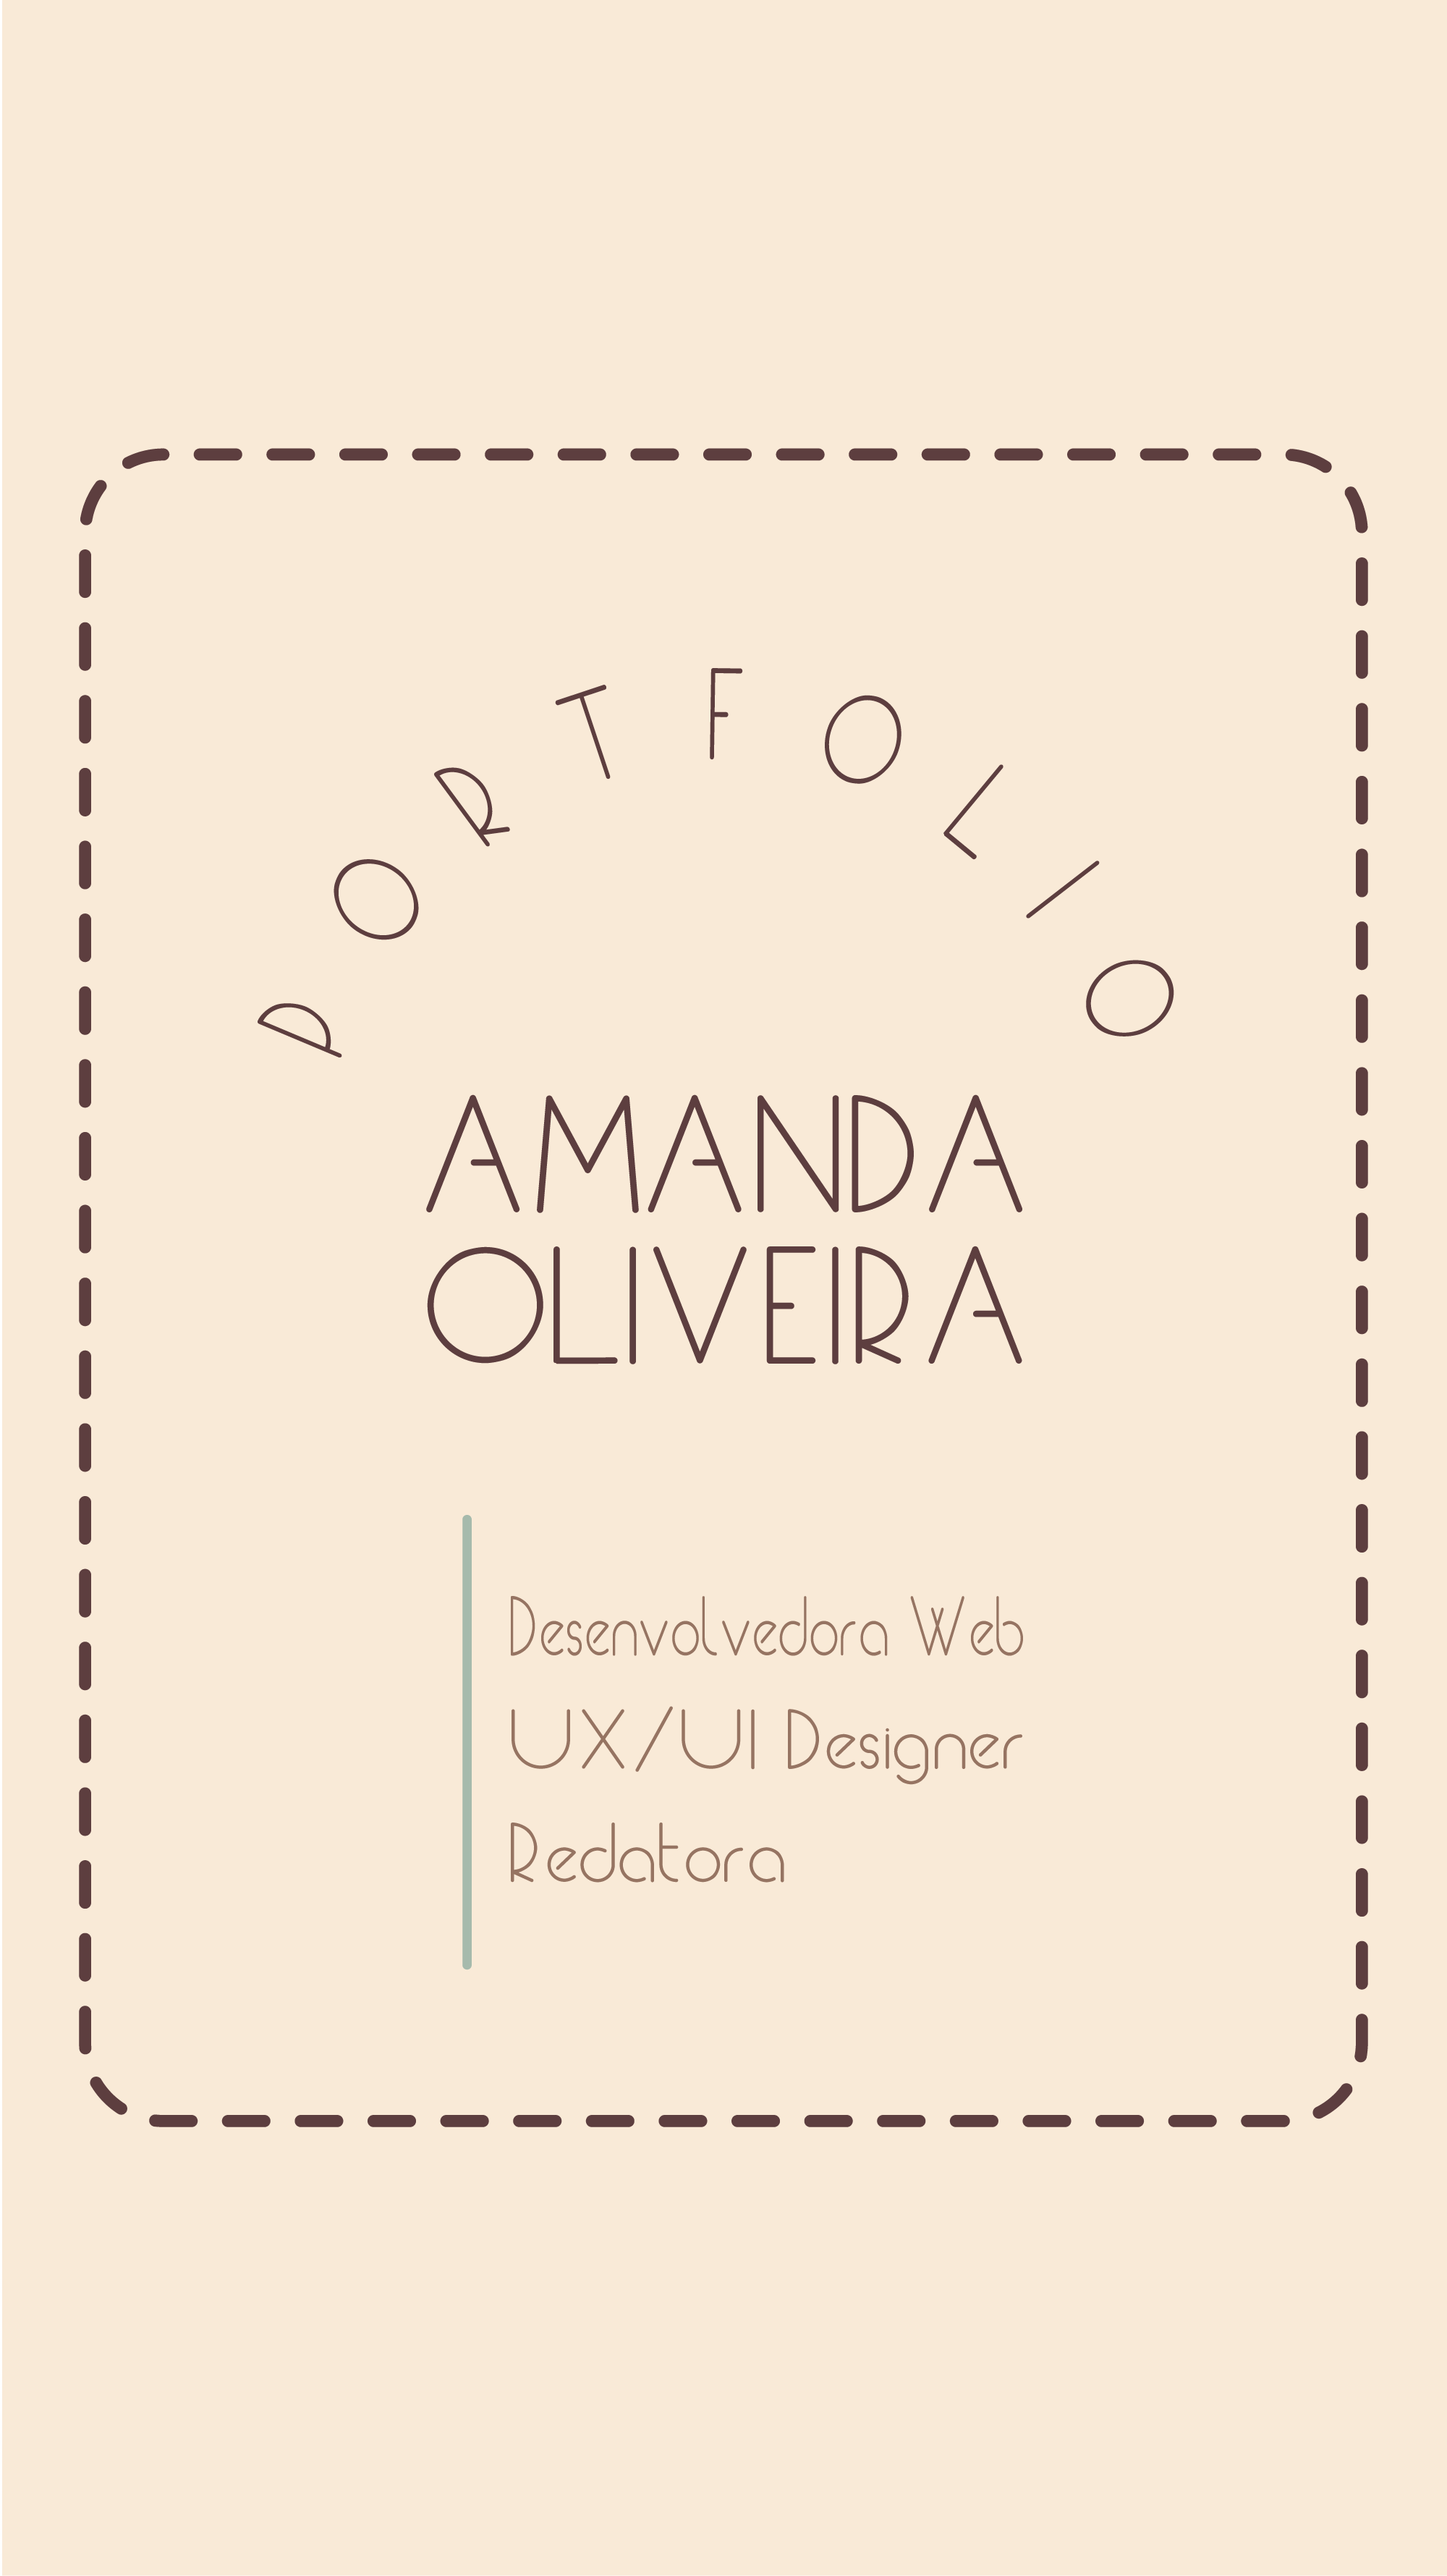
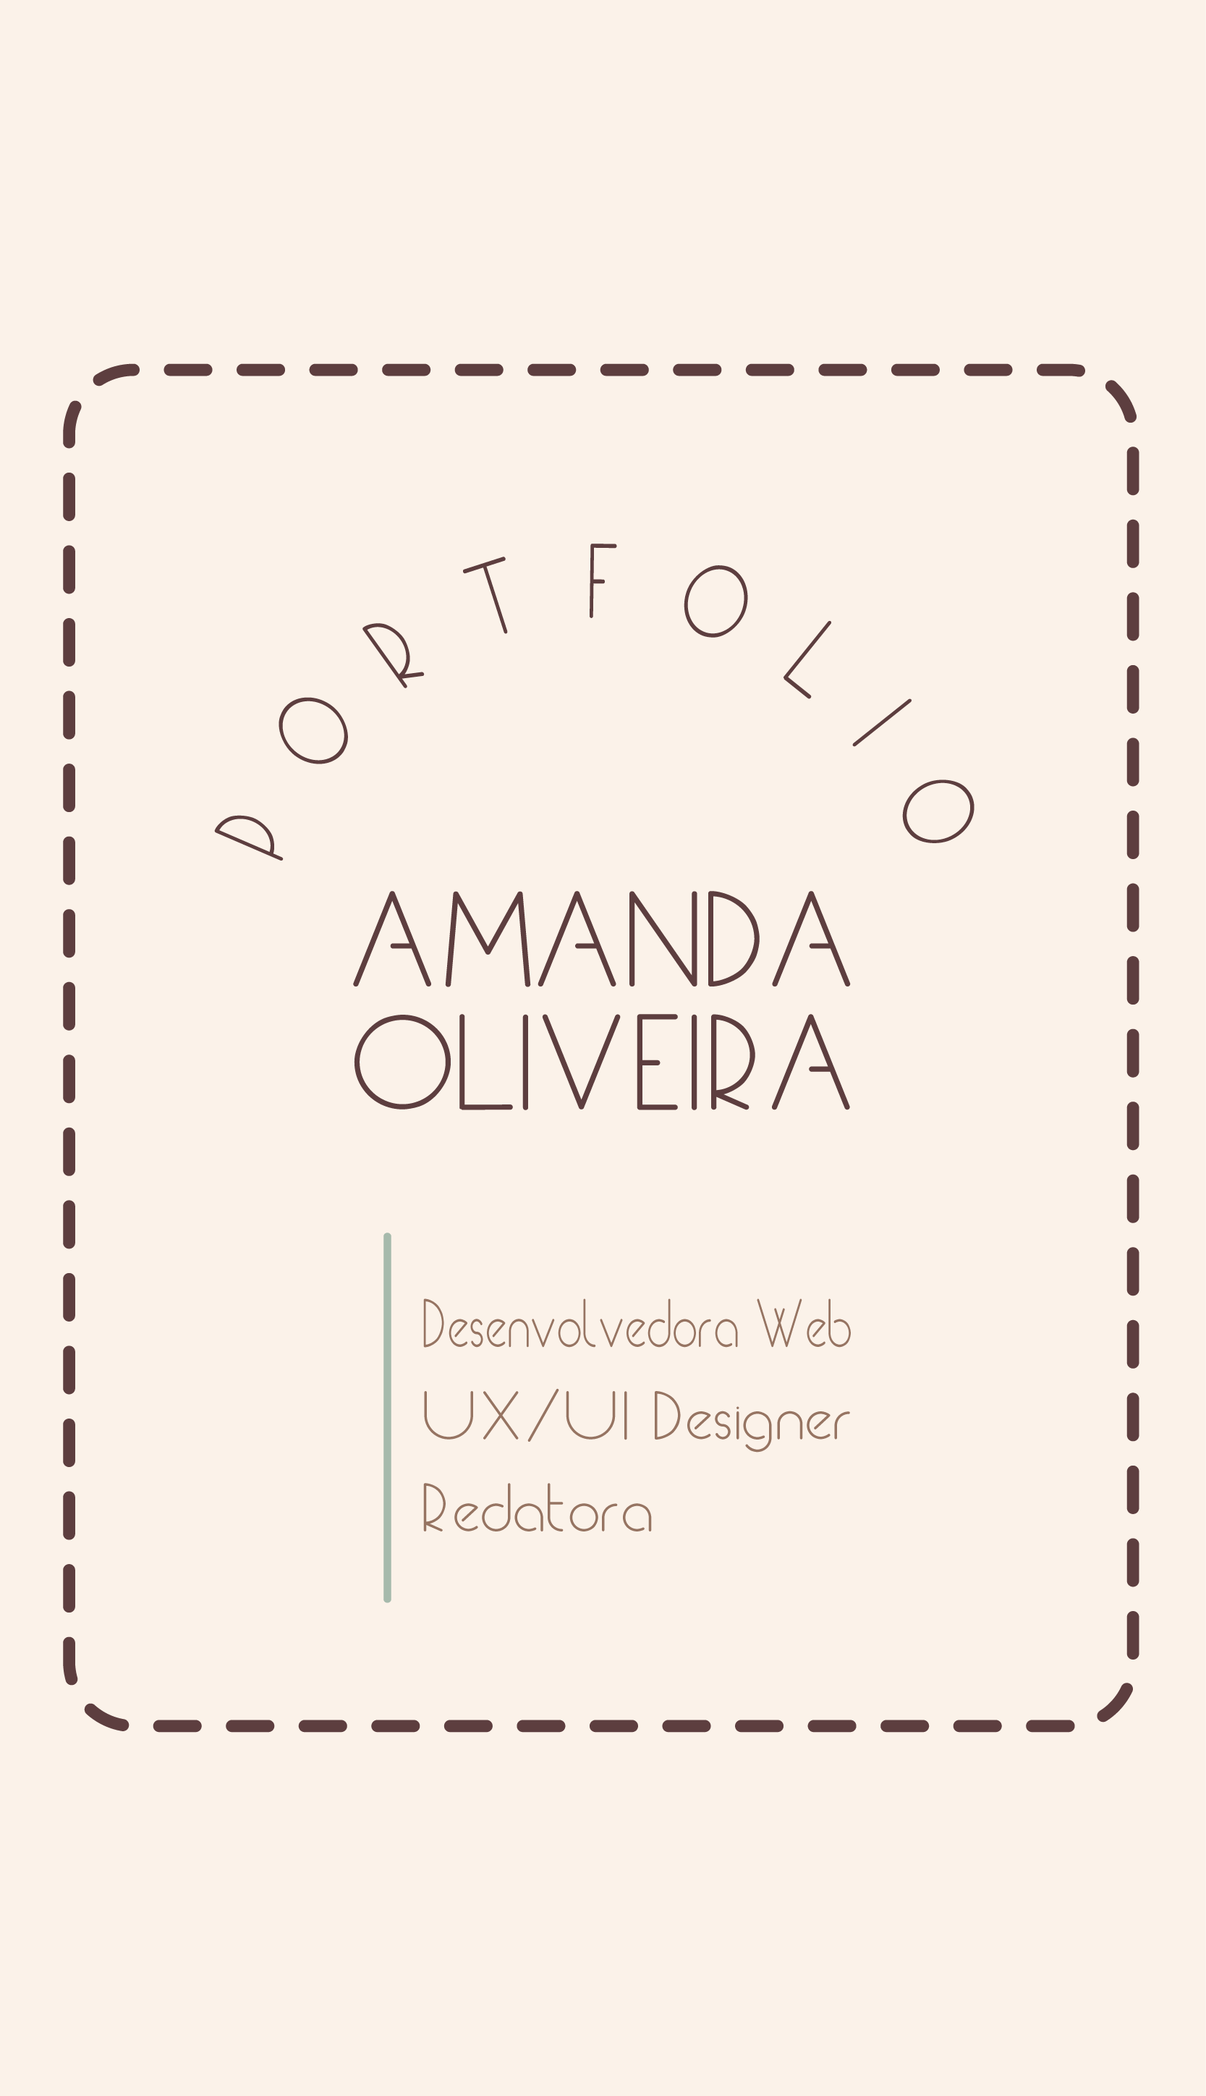
mudança das media query

diff --git a/style.css b/style.css
@@ -17,7 +17,7 @@
     --fonte-garamond: "Garamond", serif;
 
 
-    --color1: #f9efe1;
+    --color1: #fbf2e9;
     --color2: #a6baac;
     --color3: #967462;
     --color4: #5d3e3f;
@@ -62,9 +62,9 @@ nav > ul {
 
 nav > ul > li {
     font-family: var(--font-thinoo);
-    font-size: 28px;
+    font-size: 24px;
     list-style: none;
-    padding: 22px 20px 16px 20px;
+    padding: 22px 10px 16px 10px;
 }
 
 nav > ul > li > a {
@@ -254,13 +254,13 @@ button:hover {
     }
 }
 
-
-@media screen and (min-width: 1025px) {
+/*--------LAPTOP---------*/
+@media screen and (min-width: 769px) {
 
 /*-----HOME------*/
 
     .home {
-    background-image: url(./imagens/fundo-desktop.png);
+    background-image: url(./imagens/fundo-laptop.png);
     background-size: 100% 100%;
     background-position: center;
     background-repeat: no-repeat;
@@ -279,7 +279,16 @@ button:hover {
     }
 }
 
+/*-------DESKTOP-------*/
+@media screen and (min-width: 1025px) {
+    
+    .home {
+        background-image: url(./imagens/fundo-desktop.png);
+        background-size: 100% 100%;
+        background-position: center;
+        background-repeat: no-repeat;
+    }
 
-
+}
 
 
